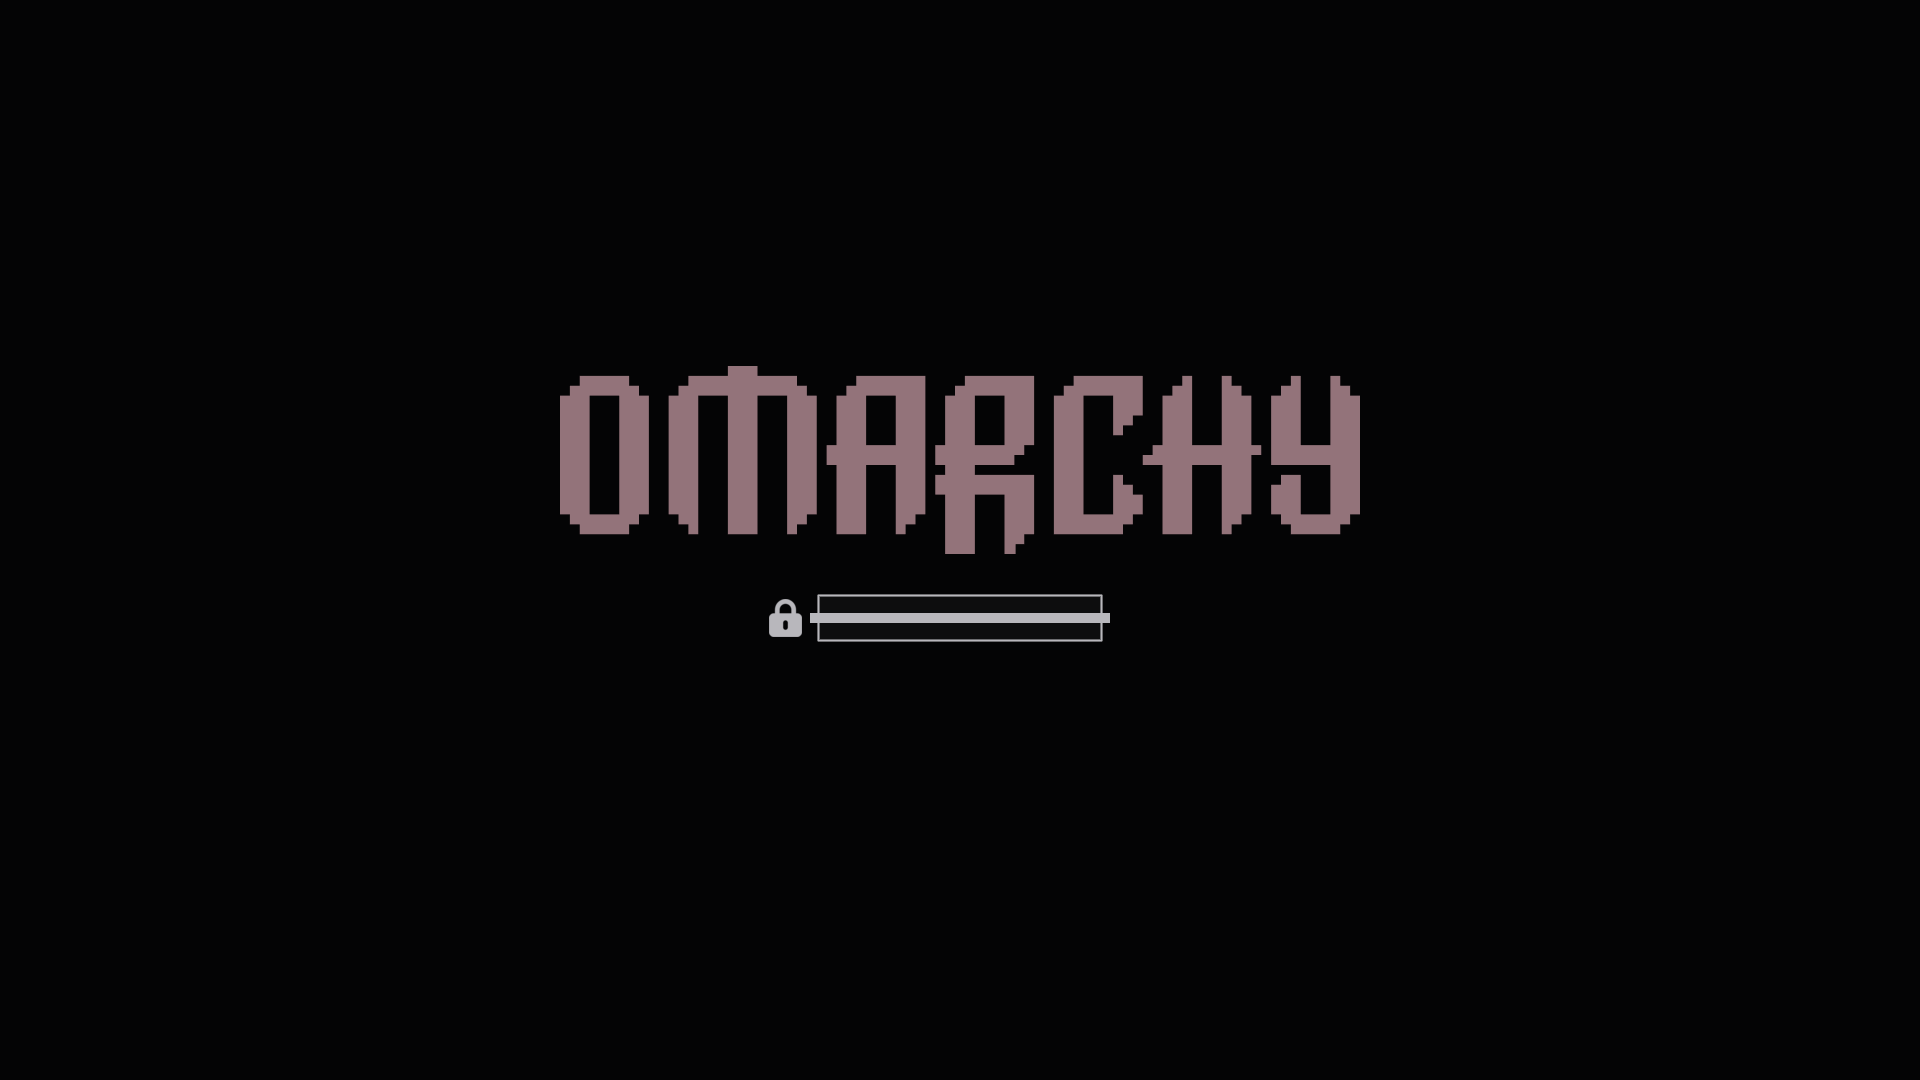
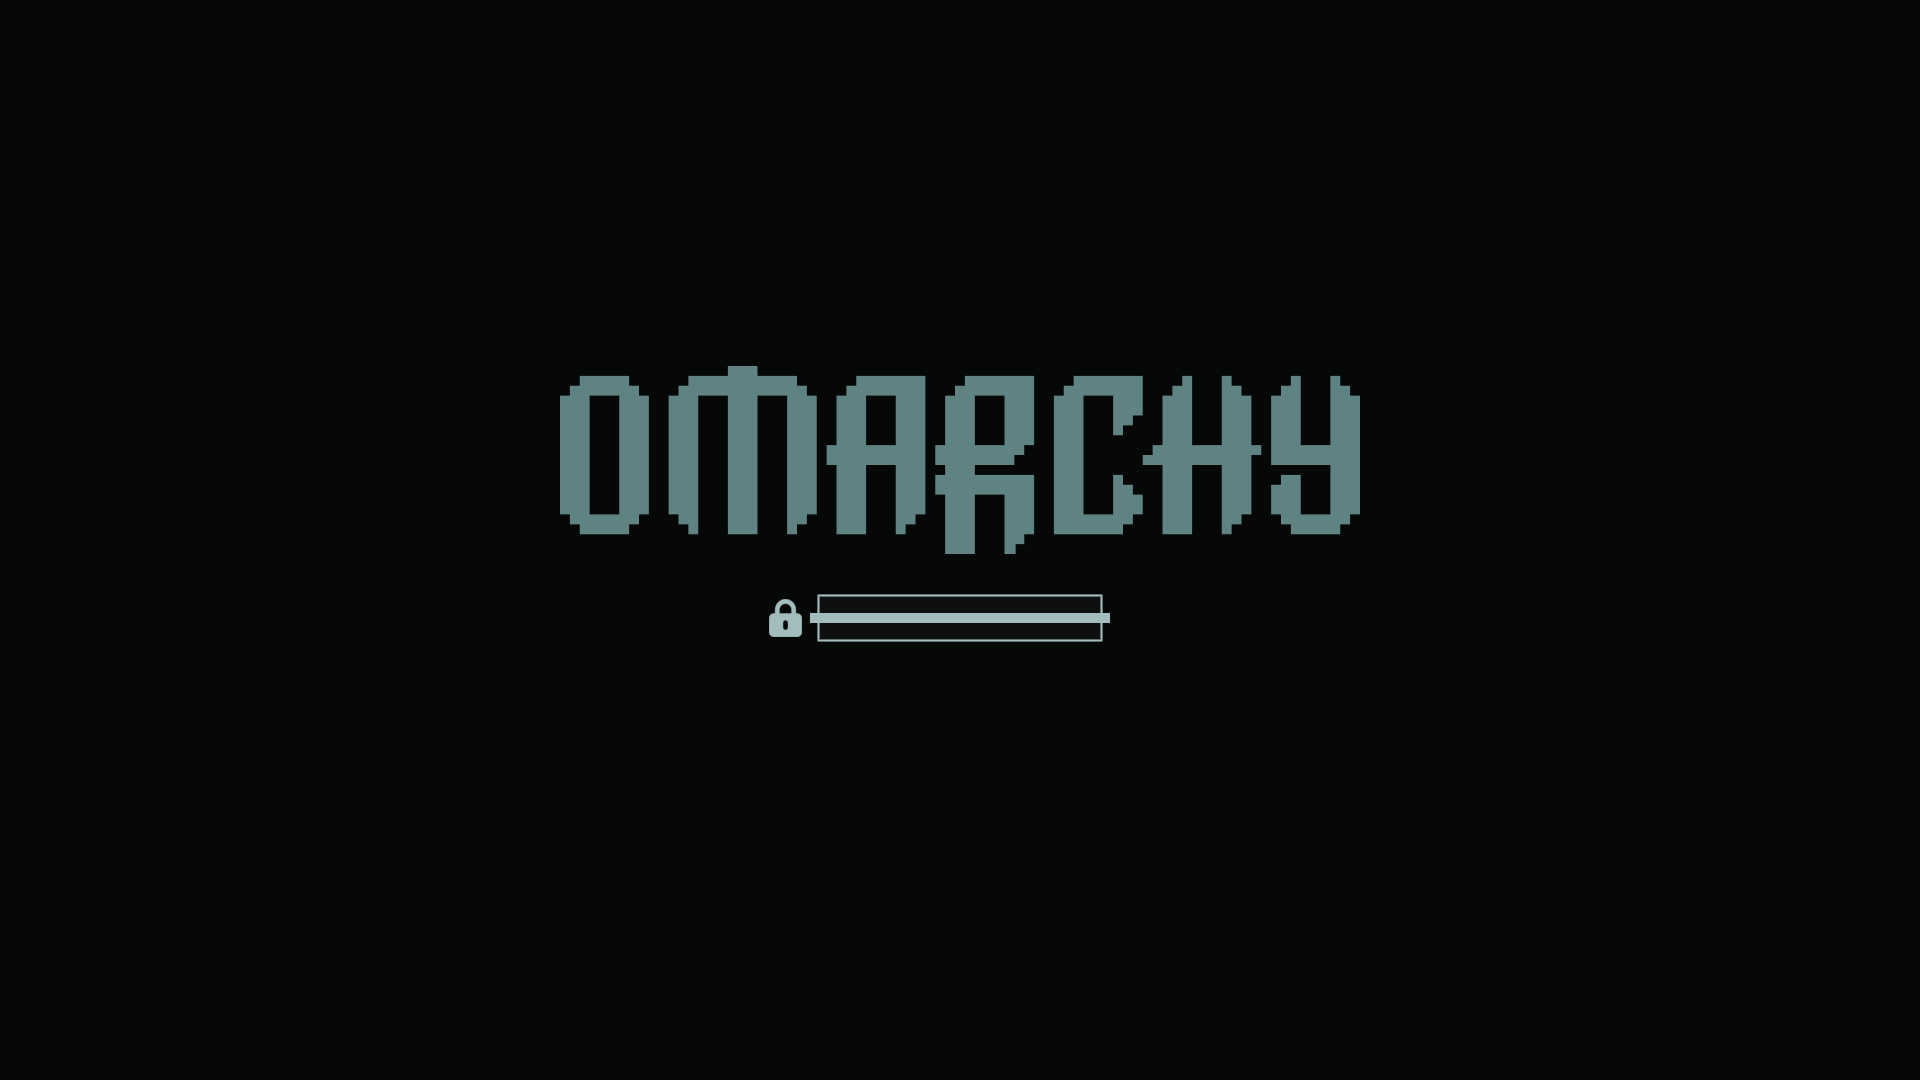
optimised theme

Changed region(s): [[0.2812, 0.3361, 0.7188, 0.5194]]

diff --git a/waybar.css b/waybar.css
@@ -5,9 +5,9 @@
    Position switch: edit waybar.position or run ./set-waybar-position.sh <edge>
    CSS classes window#waybar.top|bottom|left|right follow the config position. */
 
-@define-color foreground #B8B7BC;
-@define-color background #040405;
-@define-color accent #93737A;
+@define-color foreground #A3BDBD;
+@define-color background #060707;
+@define-color accent #5F8282;
 
 /* Smooth palette shifts when waybar.css reloads (SIGUSR2 on wallpaper change) */
 window#waybar .modules-left,
@@ -332,15 +332,15 @@ window#waybar #custom-screenrecording-indicator.active,
 window#waybar #custom-idle-indicator.active,
 window#waybar #custom-notification-silencing-indicator.active,
 window#waybar #custom-voxtype.recording {
-  color: #8E625D;
+  color: #537272;
 }
 
 window#waybar #battery.warning {
-  color: #A28876;
+  color: #699696;
 }
 
 window#waybar #battery.critical:not(.charging) {
-  color: #856462;
+  color: #7B6764;
 }
 
 /* --- Tooltip --- */

diff --git a/nautilus/gtk.css b/nautilus/gtk.css
@@ -1,7 +1,7 @@
-@define-color mg_bg #040405;
-@define-color mg_fg #B8B7BC;
-@define-color mg_accent #93737A;
-@define-color mg_panel #262835;
+@define-color mg_bg #060707;
+@define-color mg_fg #A3BDBD;
+@define-color mg_accent #5F8282;
+@define-color mg_panel #212B2B;
 
 /* Midnight Glass — Nautilus (GTK4 / libadwaita) */
 
